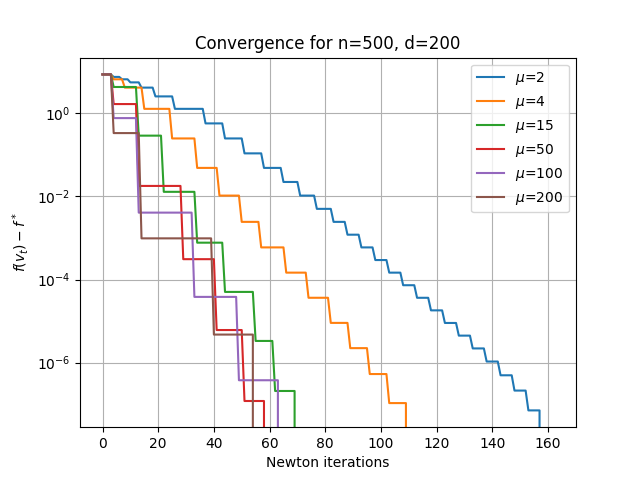
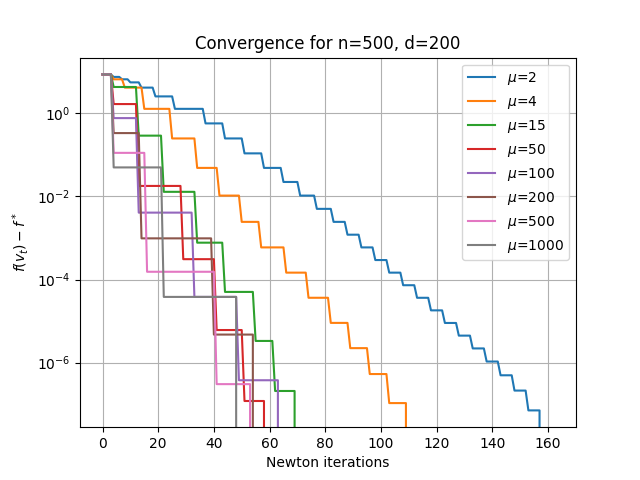
add final values of mu used for the experiment

diff --git a/convex/src/main.py b/convex/src/main.py
@@ -1,12 +1,16 @@
 import numpy as np
 from numpy.linalg import inv
 import matplotlib.pyplot as plt
+from time import time
+import warnings
+warnings.filterwarnings("ignore", category=RuntimeWarning) 
 
 
 def backtracking_line_search(t, Q, p, A, b, v, grad, step, alpha=0.25, beta=0.9):
     stop_criterium_met = False
     size = 1.0
     f = lambda x:t*(np.dot(x, Q @ x) + np.dot(p, x)) - np.sum(np.log(b - A@x))
+        
     f_v = f(v)
     while not stop_criterium_met:
         stop_criterium_met = (f(v + size * step) <= (f_v + alpha * size * np.dot(grad, step)))
@@ -20,13 +24,12 @@ def centering_step(Q, p, A, b, t, v0, eps):
     v = v0
     v_seq = []
     while not stop_criterium_met:
-        v_seq.append(v)
+        v_seq.append(v.copy())
         # Netwon step
         h = (1.0/(A@v -b))
         grad = t*(2 * Q @ v + p) - h @ A
         hessian = t*2*Q.T + (A.T*(h**2))@A
-        inv_hessian = inv(hessian)
-        step = -inv_hessian @ grad
+        step = - inv(hessian) @ grad
         
         # Newton decrement
         decrement = - np.dot(grad, step)
@@ -47,10 +50,12 @@ def barr_method(Q, p, A, b, v0, eps, mu=2, verbose=False):
     stop_criterium_met = False
     v = v0
     v_seq = []
+    v_seq_to_plot = []
     while not stop_criterium_met:
         v_seq1 = centering_step(Q, p, A, b, t, v, eps)
-        v_seq.extend(v_seq1)
         v = v_seq1[-1]
+        v_seq_to_plot.extend([v]*len(v_seq1))
+        v_seq.extend(v_seq1)
         stop_criterium_met = (num_contraints/t < eps)
         t = mu*t
         value = np.dot(v, Q@v) + np.dot(p, v)
@@ -58,16 +63,17 @@ def barr_method(Q, p, A, b, v0, eps, mu=2, verbose=False):
             print(f"Barrier iter {iter}: value {value}")
         iter += 1
         
-    return v_seq
+    return v_seq, v_seq_to_plot
         
         
         
 if __name__ == '__main__':
-    n = 100
-    d = 5
+    # Matrices definition
+    n = 500
+    d = 200
     lamb = 10
-    
     np.random.seed(42)
+    
     X = np.random.rand(n, d)
     y = np.random.rand(n)
     
@@ -78,19 +84,42 @@ if __name__ == '__main__':
     p = -y
     eps=1e-6
     
+    # Plot for different values of mu
     f = lambda x:np.dot(x, Q @ x) + np.dot(p, x)
-    mu_list = [2, 4, 8, 15, 50, 100]
+    mu_list = [2, 4, 15, 50, 100, 200, 500, 1000]
+    ws = []
     plt.figure()
     for mu in mu_list:
-        v_seq = barr_method(Q, p, A, b, v0, eps, mu)
+        tic = time()
+        _, v_seq = barr_method(Q, p, A, b, v0, eps, mu)
+        toc = time()
         f_values = np.array([f(v) for v in v_seq])
         plt.semilogy(f_values-f_values[-1], label=f'$\mu$={mu}')
+        print(f"  mu={mu}, time: {toc-tic}")
+        ws.append(np.linalg.pinv(X) @ (y - v_seq[-1]))
         
     plt.grid()
-    plt.xlabel('Iterations')
+    plt.xlabel('Newton iterations')
     plt.ylabel('$f(v_t) - f^*$')
+    plt.title(f'Convergence for n={n}, d={d}')
     plt.legend()
+    plt.savefig(f'results/mu_plot_for_n_{n}_d_{d}.png')
     plt.show()
+    
+    
+    plt.figure()
+    for i in range(len(mu_list)):
+        plt.plot(ws[i], 'x', label=f'$\mu$={mu_list[i]}')
+    plt.title(f'Check of w components for d={d}')
+    plt.ylabel('w component')
+    plt.xlabel('Dimension index')
+    plt.grid()
+    plt.legend()
+    plt.savefig(f'results/w_for_n_{n}_d_{d}.png')
+    plt.show()
+    
+    
+
     
     print()
     
